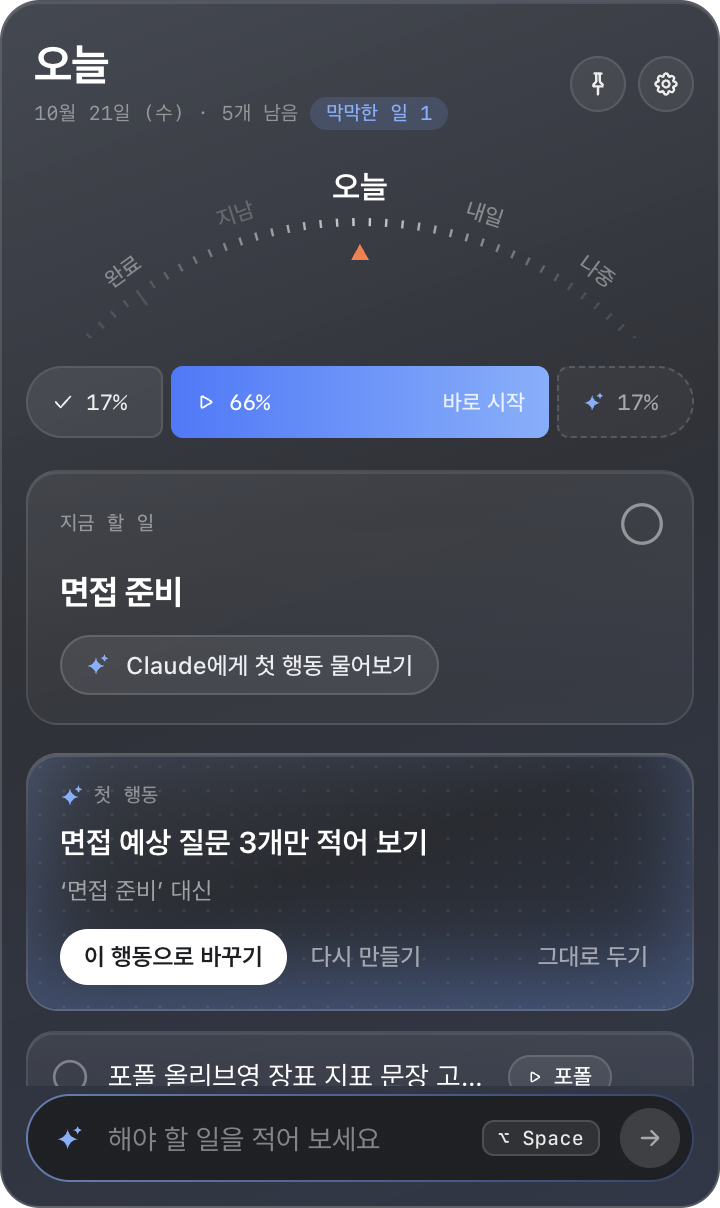
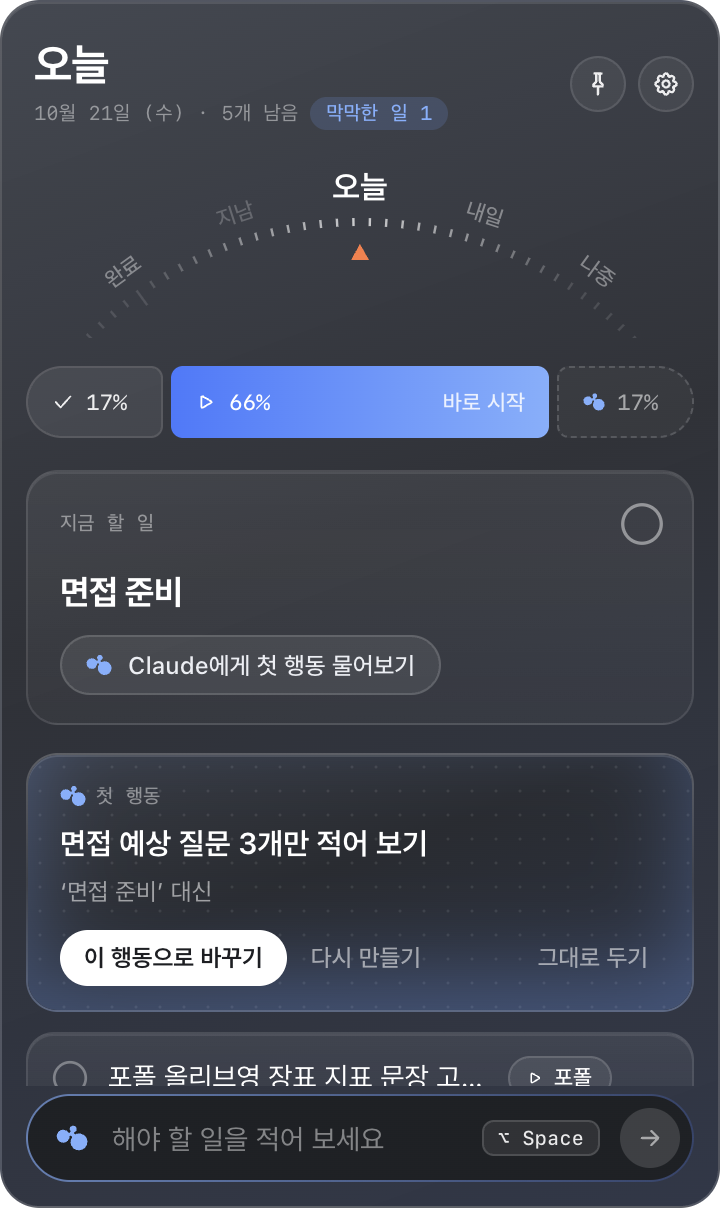
Rigel 0.1.4: 로고 로더·마크, 보내는 정보 설명, 맥 '손상' 안내, 새 스크린샷

diff --git a/index.html b/index.html
@@ -115,6 +115,15 @@
   .btn-t:hover { color: var(--text); }
   .spin { width: 11px; height: 11px; border-radius: 50%; border: 1.5px solid rgb(255 255 255 / 25%); border-top-color: var(--blue-2); animation: spin 0.8s linear infinite; flex: none; }
   @keyframes spin { to { transform: rotate(360deg); } }
+  /* Rigel 로더(앱과 같음): 작은 원 둘이 떨어졌다가 로고 모양으로 붙는다 */
+  .rl { flex: none; margin: -2px; color: var(--blue-2); vertical-align: middle; }
+  .rl circle { transform-box: fill-box; transform-origin: center; }
+  .rl-l { animation: rl-l 1.8s cubic-bezier(0.45, 0, 0.3, 1) infinite; }
+  .rl-s { animation: rl-s 1.8s cubic-bezier(0.45, 0, 0.3, 1) infinite 0.1s; }
+  .rl-b { animation: rl-b 1.8s cubic-bezier(0.45, 0, 0.3, 1) infinite; }
+  @keyframes rl-l { 0%, 12%, 88%, 100% { transform: none; } 50% { transform: translate(-6px, -2px); } }
+  @keyframes rl-s { 0%, 12%, 88%, 100% { transform: none; } 50% { transform: translate(2px, -6px); } }
+  @keyframes rl-b { 0%, 78%, 100% { transform: none; } 90% { transform: scale(1.05); } }
   .sparkle { width: 13px; height: 13px; color: var(--blue-2); flex: none; }
 
   /* 빠른 입력 */
@@ -257,6 +266,7 @@
   summary::-webkit-details-marker { display: none; }
   summary span { color: var(--text-3); font-weight: 400; font-size: 14px; }
   details .open { display: grid; grid-template-columns: 1fr 1fr; gap: 32px; padding: 0 26px 26px; }
+  details .open .note { margin: 12px 0 0; font-size: 13px; line-height: 1.55; color: var(--text-3); }
   details h4 { margin: 0 0 8px; font-size: 15px; }
   details ol { margin: 0; padding-left: 20px; color: var(--text-2); font-size: 15px; }
   details li { margin: 4px 0; }
@@ -279,6 +289,7 @@
     .reveal { opacity: 1; transform: none; transition: none; }
     .pop, .fade, .now.handoff .flash, .split .raw.go { animation: none; }
     .spin { animation-duration: 2.4s; }
+    .rl circle { animation: none; }
     html { scroll-behavior: auto; }
   }
 
@@ -299,7 +310,8 @@
 </head>
 <body>
   <svg width="0" height="0" style="position: absolute" aria-hidden="true">
-    <symbol id="i-spark" viewBox="0 0 16 16"><path fill="currentColor" d="M8 1.5c.4 2.9 1.6 4.1 4.5 4.5-2.9.4-4.1 1.6-4.5 4.5-.4-2.9-1.6-4.1-4.5-4.5C6.4 5.6 7.6 4.4 8 1.5Zm4.6 7.3c.2 1.4.8 2 2.2 2.2-1.4.2-2 .8-2.2 2.2-.2-1.4-.8-2-2.2-2.2 1.4-.2 2-.8 2.2-2.2Z" /></symbol>
+    <symbol id="i-spark" viewBox="9.8 1.4 68 68"><path fill="currentColor" d="M62.5871 26.2235C70.34 27.9228 76.0751 34.7199 76.6061 42.579C77.2433 53.518 68.1097 62.4392 57.1707 61.5896C48.6743 60.8462 41.771 54.1553 40.8152 45.7651C40.4966 42.8976 40.8152 40.2425 41.6648 37.7998C41.8773 36.9502 42.6207 35.7819 43.1517 35.1447C43.2579 35.0385 43.3641 34.9323 43.3641 34.9323C43.4703 34.7199 43.5765 34.6137 43.5765 34.5075C43.6827 34.1888 43.7889 33.9764 43.7889 33.6578C43.7889 33.5516 43.7889 33.5516 43.7889 33.4454C43.7889 31.8523 42.6207 30.6841 41.1338 30.6841C40.0718 30.6841 39.2221 31.2151 38.7973 32.0647C38.5849 32.2772 38.4787 32.4896 38.4787 32.8082C38.4787 33.0206 38.3725 33.233 38.3725 33.4454C38.3725 34.6137 38.1601 35.8881 37.7353 36.9502C35.7174 42.048 30.832 45.4465 24.9907 45.4465C16.9192 45.4465 10.4407 38.437 11.2904 30.0469C12.0338 23.7808 17.0254 18.7892 23.2915 17.9396C26.9024 17.5147 30.1948 18.4706 32.8499 20.3823C34.0181 21.1257 35.0802 22.2939 35.8236 23.4622C36.036 23.7808 36.3546 24.0994 36.6732 24.2056C36.9918 24.5242 37.5229 24.6304 38.0539 24.6304C39.5408 24.6304 40.709 23.4622 40.709 21.9753C40.709 21.7629 40.709 21.5505 40.6028 21.3381C40.6028 21.0195 40.4966 20.8071 40.3904 20.5947C40.2842 20.5947 40.2842 20.4885 40.178 20.4885C39.3283 19.3202 38.7973 17.9396 38.7973 16.4527C38.7973 11.8859 42.9393 8.27495 47.6123 9.12459C50.4798 9.65561 52.8163 11.8859 53.4535 14.7534C53.8784 16.9837 53.4535 19.0016 52.2853 20.5947C51.7543 21.3381 50.9046 21.8691 50.055 22.1877C49.9488 22.1877 49.9488 22.1877 49.8426 22.1877C49.6302 22.2939 49.4178 22.5063 49.2054 22.6126C48.8867 22.825 48.6743 23.1436 48.4619 23.4622C48.1433 23.887 48.0371 24.418 48.0371 24.949C48.0371 25.2677 48.0371 25.5863 48.2495 25.9049C48.6743 27.2855 50.2674 27.8166 51.5419 27.2855C51.7543 27.1793 51.9667 27.0731 52.1791 26.9669C52.6039 26.8607 52.9142 26.6704 53.3473 26.5421C56.2149 25.6925 59.2948 25.4801 62.5871 26.2235Z" /></symbol>
+    <filter id="goo-l" filterUnits="userSpaceOnUse" x="-10" y="-10" width="92" height="80"><feGaussianBlur in="SourceGraphic" stdDeviation="2.6" result="b" /><feColorMatrix in="b" mode="matrix" values="1 0 0 0 0  0 1 0 0 0  0 0 1 0 0  0 0 0 14 -5.5" /></filter>
     <symbol id="i-check" viewBox="0 0 16 16"><path d="m3.5 8.4 2.9 2.9 6.1-6.6" fill="none" stroke="currentColor" stroke-width="2" stroke-linecap="round" stroke-linejoin="round" /></symbol>
     <symbol id="i-chev" viewBox="0 0 16 16"><path d="m4 6 4 4 4-4" fill="none" stroke="currentColor" stroke-width="1.6" stroke-linecap="round" stroke-linejoin="round" /></symbol>
     <symbol id="i-figma" viewBox="0 0 16 24"><path fill="#f24e1e" d="M4 0h4v8H4a4 4 0 0 1 0-8Z" /><path fill="#ff7262" d="M8 0h4a4 4 0 0 1 0 8H8V0Z" /><path fill="#a259ff" d="M4 8h4v8H4a4 4 0 0 1 0-8Z" /><circle fill="#1abcfe" cx="12" cy="12" r="4" /><path fill="#0acf83" d="M4 16h4v4a4 4 0 1 1-4-4Z" /></symbol>
@@ -438,7 +450,7 @@
           <div><span class="no">02 — 나누기</span><h2>긴 생각은<br />할 일로 나눠요</h2></div>
           <div>
             <p class="value">한 문장에 섞인 일을 Claude가 <b>할 일 하나하나로</b> 나눠요. 언제 할지, 언제까지인지도 함께요.</p>
-            <ul class="facts"><li>넣기 전에 한 번 확인해요</li><li>마감 전에 할 준비는 오늘로 잡아요</li></ul>
+            <ul class="facts"><li>넣기 전에 한 번 확인해요</li><li>마감 전에 할 준비는 오늘로 잡아요</li><li>말하지 않은 마감은 붙이지 않아요</li></ul>
           </div>
         </div>
         <div class="demo reveal" id="split-demo">
@@ -458,7 +470,7 @@
           <div><span class="no">03 — 첫 행동</span><h2>막막한 일은<br />첫 행동으로</h2></div>
           <div>
             <p class="value">큰 일 대신 <b>지금 시작할 수 있는 작은 행동 하나</b>를 제안해요. 맨 위 할 일은 미리 찾아 두어서, 누르자마자 보여요.</p>
-            <ul class="facts"><li>필요하면 답하기 쉬운 질문 하나만 해요</li><li>마음에 안 들면 다시 만들어요</li></ul>
+            <ul class="facts"><li>같은 목록의 다른 할 일과 겹치지 않게 골라요</li><li>필요하면 답하기 쉬운 질문 하나만 해요</li><li>마음에 안 들면 다시 만들어요</li></ul>
           </div>
         </div>
         <div class="demo reveal" id="redo-demo">
@@ -552,6 +564,7 @@
                 <li><b>시스템 설정 → 개인정보 보호 및 보안</b> 맨 아래 <b>그래도 열기</b></li>
                 <li>다시 열고 <b>열기</b>를 누르면 메뉴바에 아이콘이 생겨요</li>
               </ol>
+              <p class="note">‘손상되었기 때문에 열 수 없습니다’가 뜨면 0.1.3 이하 파일이에요. 휴지통에 넣고 새로 받아 주세요.</p>
             </div>
             <div>
               <h4>Windows</h4>
@@ -565,7 +578,7 @@
           </div>
         </details>
         <div class="trust reveal">
-          <div><h4>내 컴퓨터에만</h4><p>할 일과 설정은 내 컴퓨터에만 저장해요. Claude에는 이름만 보내고, 파일 내용과 링크는 보내지 않아요.</p></div>
+          <div><h4>내 컴퓨터에만</h4><p>할 일과 설정은 내 컴퓨터에만 저장해요. Claude에는 첫 행동에 필요한 할 일과 고른 자료의 요약만 보내고, 내 파일의 내용과 링크는 보내지 않아요.</p></div>
           <div><h4>내 Claude로</h4><p>Rigel은 내 Claude Code를 실행만 해요. 계정 정보는 직접 다루지 않아요.</p></div>
           <div><h4>알아서 새 버전</h4><p>새 버전이 나오면 앱이 알려 줘요. 윈도우는 다시 켤 때 자동으로 바뀌어요.</p></div>
         </div>
@@ -810,7 +823,7 @@
     // 3) 물어보면 실제로 일어나는 일만 보여 준다
     ask.remove();
     fsSlot.innerHTML = "";
-    var prog = el('<div class="progress fade"><p class="done">' + CHECK + 'Claude에 할 일을 보냈어요</p><p><span class="spin"></span>첫 행동을 찾고 있어요<span class="meta2">보통 6초</span></p></div>');
+    var prog = el('<div class="progress fade"><p class="done">' + CHECK + 'Claude에 할 일을 보냈어요</p><p><svg class="rl" width="20" height="17.4" viewBox="-10 -10 92 80" fill="currentColor" aria-hidden="true"><g filter="url(#goo-l)"><circle class="rl-b" cx="48.7" cy="37.6" r="17.6"/><circle class="rl-l" cx="16.5" cy="26.3" r="13.4"/><circle class="rl-s" cx="37.8" cy="12" r="7.2"/></g></svg>첫 행동을 찾고 있어요<span class="meta2">보통 6초</span></p></div>');
     fsSlot.appendChild(prog);
     await wait(1700);
     if (my !== run) return;
@@ -893,7 +906,7 @@
   async function playSplit() {
     out.innerHTML = ""; raw.classList.remove("go");
     await wait(300);
-    var p = el('<div class="progress fade" style="padding-left: 4px"><p><span class="spin"></span>할 일로 나누고 있어요</p></div>');
+    var p = el('<div class="progress fade" style="padding-left: 4px"><p><svg class="rl" width="20" height="17.4" viewBox="-10 -10 92 80" fill="currentColor" aria-hidden="true"><g filter="url(#goo-l)"><circle class="rl-b" cx="48.7" cy="37.6" r="17.6"/><circle class="rl-l" cx="16.5" cy="26.3" r="13.4"/><circle class="rl-s" cx="37.8" cy="12" r="7.2"/></g></svg>할 일로 나누고 있어요</p></div>');
     out.appendChild(p);
     await wait(1300);
     out.innerHTML = ""; void raw.offsetWidth; raw.classList.add("go");
@@ -919,7 +932,7 @@
   rTitle.textContent = REDO[0];
   $(redo, ".redo").addEventListener("click", async function () {
     var btn = this; btn.disabled = true;
-    rTitle.innerHTML = '<span style="display:inline-flex;align-items:center;gap:7px;font-size:13px;font-weight:500;color:var(--text-2)"><span class="spin"></span>다시 만들고 있어요</span>';
+    rTitle.innerHTML = '<span style="display:inline-flex;align-items:center;gap:7px;font-size:13px;font-weight:500;color:var(--text-2)"><svg class="rl" width="20" height="17.4" viewBox="-10 -10 92 80" fill="currentColor" aria-hidden="true"><g filter="url(#goo-l)"><circle class="rl-b" cx="48.7" cy="37.6" r="17.6"/><circle class="rl-l" cx="16.5" cy="26.3" r="13.4"/><circle class="rl-s" cx="37.8" cy="12" r="7.2"/></g></svg>다시 만들고 있어요</span>';
     await wait(800);
     ri = (ri + 1) % REDO.length;
     rTitle.textContent = REDO[ri]; rTitle.classList.remove("pop"); void rTitle.offsetWidth; rTitle.classList.add("pop");

diff --git a/README.md b/README.md
@@ -15,5 +15,6 @@
 
 [Claude Code](https://docs.claude.com/en/docs/claude-code/setup)를 설치하고 로그인해 두면, 내 Claude 구독으로 동작해요.
 예전 이름(todoBAN)으로 설치했다면 새 버전을 받아 설치하면 돼요. 할 일과 설정은 그대로 남아요.
+맥에서 "손상되었기 때문에 열 수 없습니다"가 뜨면 0.1.3 이하 파일이에요. 휴지통에 넣고 새로 받아 주세요.
 
 이 레포에는 설치 파일과 다운로드 페이지만 있어요. 앱은 새 버전이 나오면 여기서 확인해요(윈도우는 자동 설치, 맥은 새 버전 알림).
